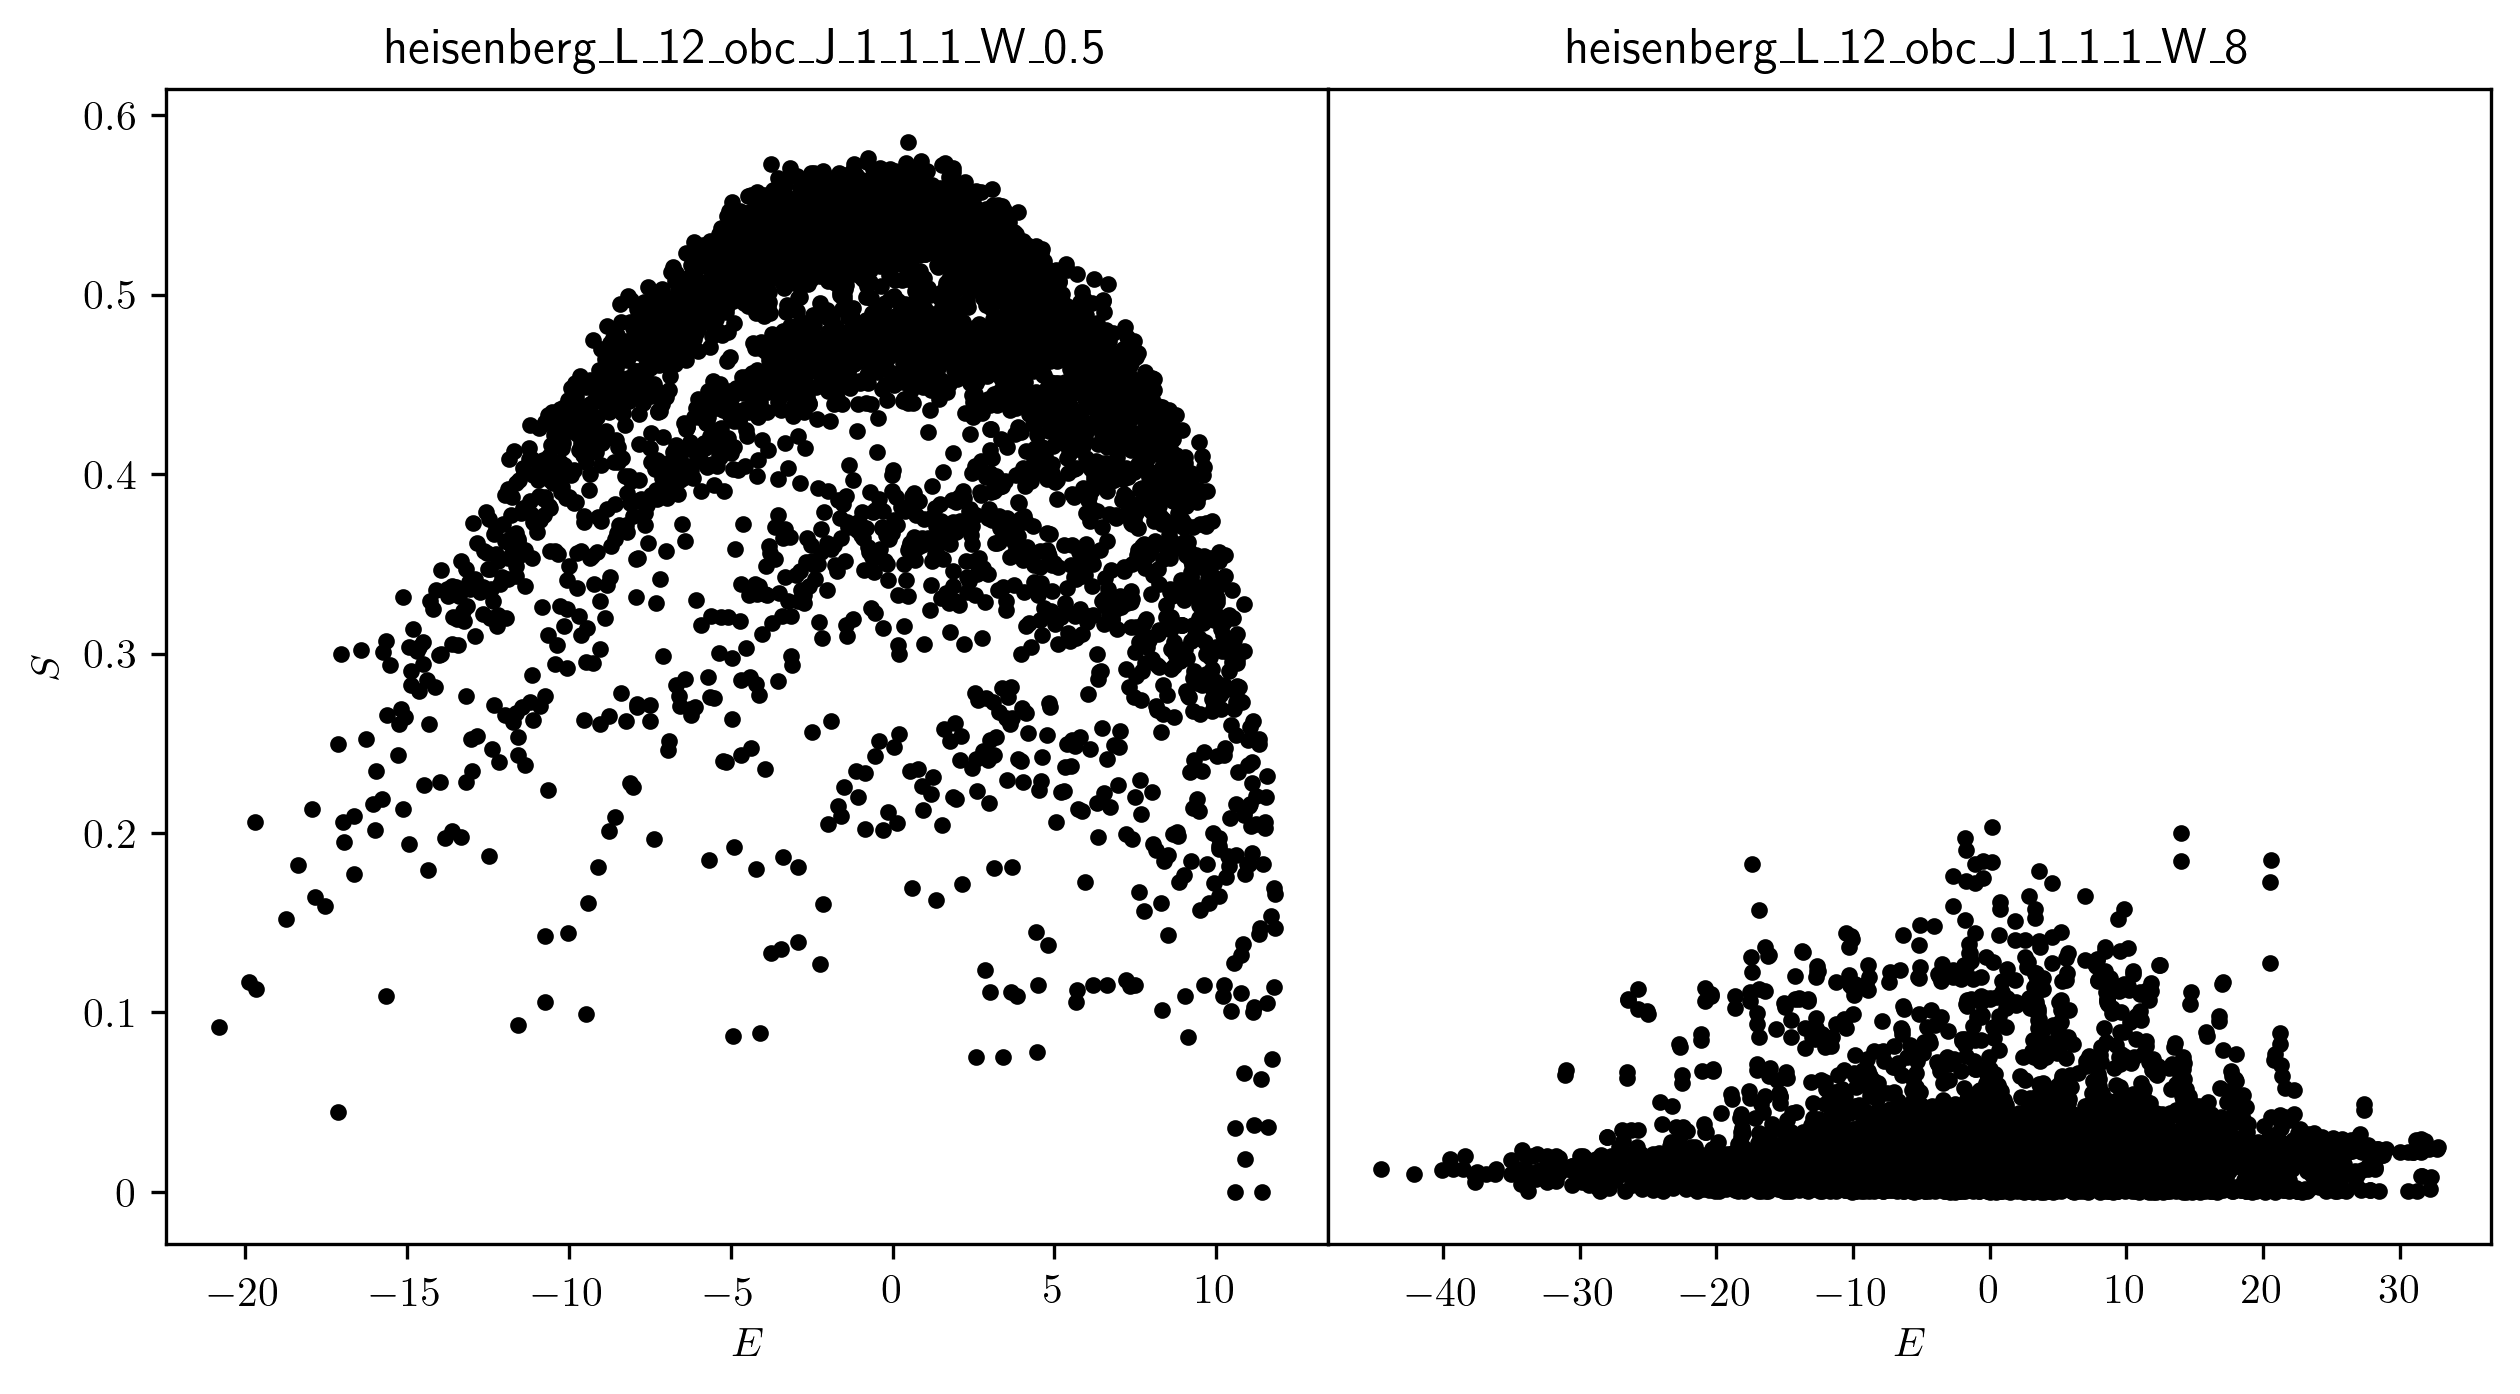
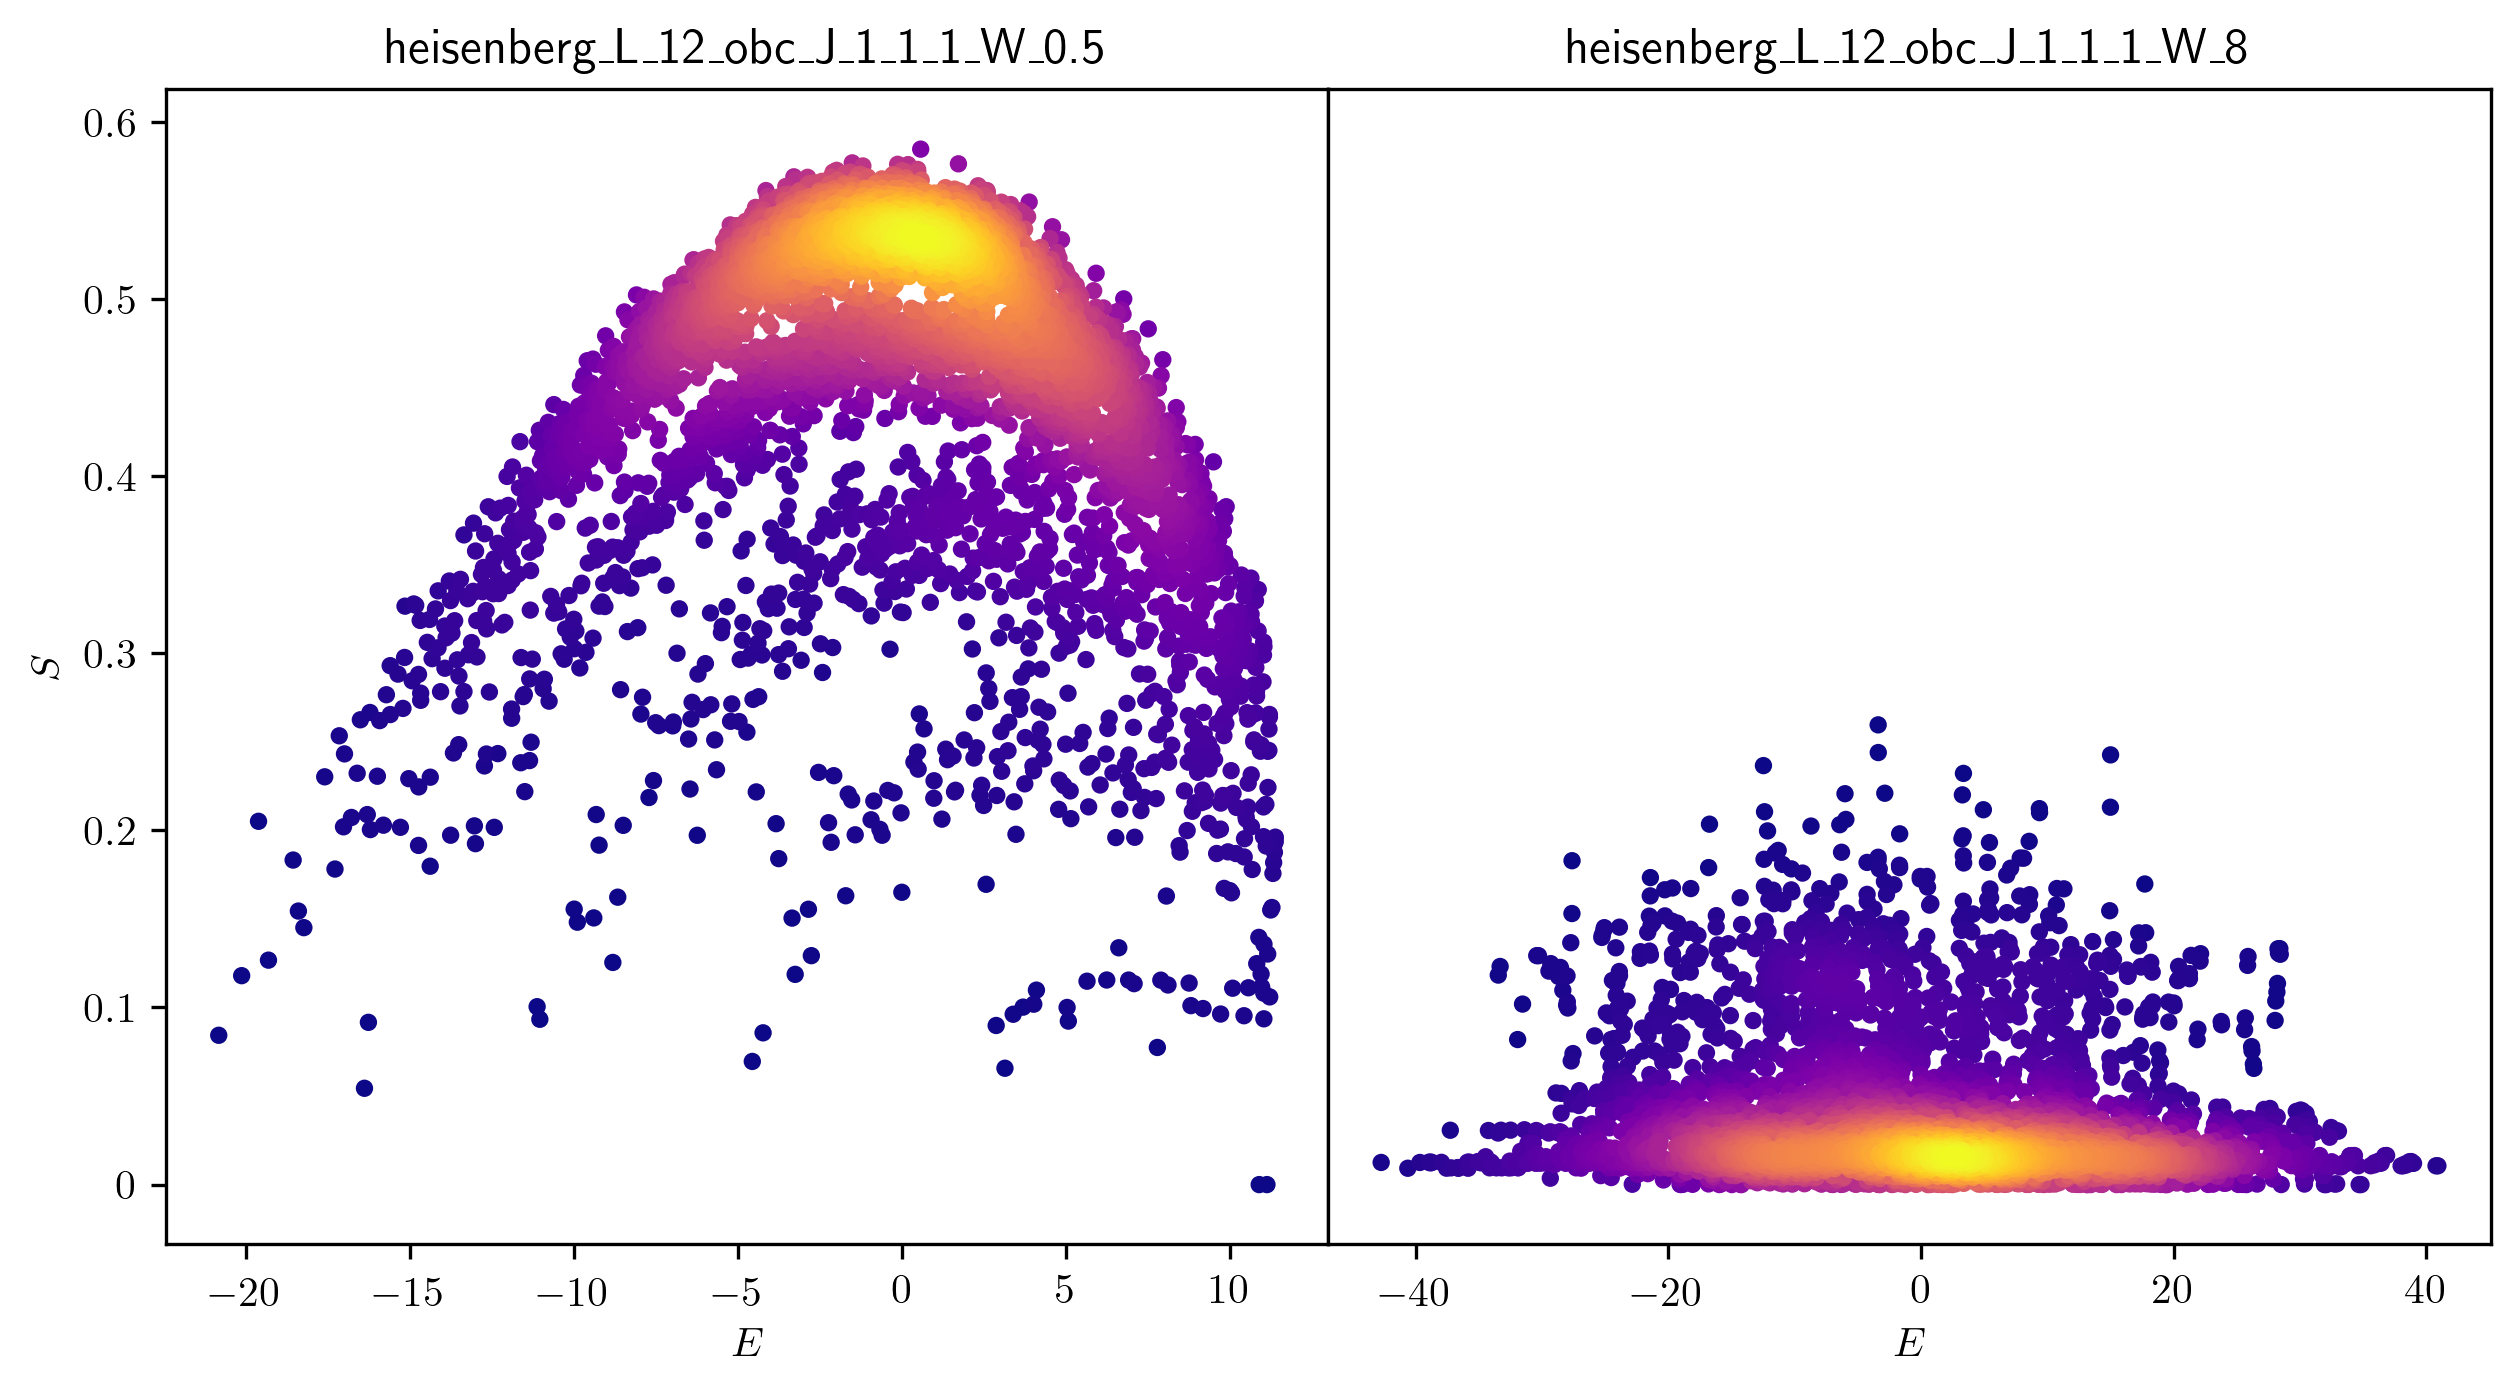
updated ent_arc plot

diff --git a/plot/ent_arc.py b/plot/ent_arc.py
@@ -4,6 +4,8 @@ import csv
 from matplotlib.ticker import FormatStrFormatter
 import matplotlib.gridspec as gridspec
 import os
+from scipy.stats import gaussian_kde
+import numpy as np
 
 plt.rc('text', usetex=True)
 plt.rc('text.latex', preamble=r'\usepackage{amsmath}\usepackage{braket}')
@@ -34,7 +36,18 @@ def plot_ent_arc(_model, _params1, _params2=None, _save=False):
 
         plt.figure(figsize=(5, 5))
         ax0 = plt.subplot(111)
-        ax0.plot(E_1, S_1, '.', c='k', lw=1)
+
+        # convert lists to arrays
+        E_1 = np.array(E_1)
+        S_1 = np.array(S_1)
+        # calculate the point density
+        E_1_S_1 = np.vstack([E_1, S_1])
+        z = gaussian_kde(E_1_S_1)(E_1_S_1)
+        # sort the points by density, so that the densest points are plotted last
+        idx = z.argsort()
+        E_1, S_1, z = E_1[idx], S_1[idx], z[idx]
+        # scatter plot
+        ax0.scatter(E_1, S_1, c=z, s=10, cmap='plasma')
         ax0.set_xlabel('$E$')
         ax0.xaxis.set_major_formatter(FormatStrFormatter('$%g$'))
         ax0.set_ylabel('$S$')
@@ -71,7 +84,17 @@ def plot_ent_arc(_model, _params1, _params2=None, _save=False):
         ax0 = plt.subplot(gs[0])
         ax1 = plt.subplot(gs[1], sharey=ax0)
 
-        ax0.plot(E_1, S_1, '.', c='k', lw=1)
+        # convert lists to arrays
+        E_1 = np.array(E_1)
+        S_1 = np.array(S_1)
+        # calculate the point density
+        E_1_S_1 = np.vstack([E_1, S_1])
+        z = gaussian_kde(E_1_S_1)(E_1_S_1)
+        # sort the points by density, so that the densest points are plotted last
+        idx = z.argsort()
+        E_1, S_1, z = E_1[idx], S_1[idx], z[idx]
+        # scatter plot
+        ax0.scatter(E_1, S_1, c=z, s=10, cmap='plasma')
         ax0.set_xlabel('$E$')
         ax0.xaxis.set_major_formatter(FormatStrFormatter('$%g$'))
         ax0.set_ylabel('$S$')
@@ -79,7 +102,17 @@ def plot_ent_arc(_model, _params1, _params2=None, _save=False):
         ax0.set_title(f"{_model}_{_params1}".replace('_', '\_'))
 
         ax1.yaxis.set_visible(False)
-        ax1.plot(E_2, S_2, '.', c='k', lw=1)
+        # convert lists to arrays
+        E_2 = np.array(E_2)
+        S_2 = np.array(S_2)
+        # calculate the point density
+        E_2_S_2 = np.vstack([E_2, S_2])
+        z = gaussian_kde(E_2_S_2)(E_2_S_2)
+        # sort the points by density, so that the densest points are plotted last
+        idx = z.argsort()
+        E_2, S_2, z = E_2[idx], S_2[idx], z[idx]
+        # scatter plot
+        ax1.scatter(E_2, S_2, c=z, s=10, cmap='plasma')
         ax1.set_xlabel('$E$')
         ax1.xaxis.set_major_formatter(FormatStrFormatter('$%g$'))
         ax1.set_title(f"{_model}_{_params2}".replace('_', '\_'))
@@ -95,6 +128,6 @@ if __name__ == "__main__":
 
     model = 'heisenberg'
     params1 = 'L_12_obc_J_1_1_1_W_0.5'
-    params2 = 'L_12_obc_J_1_1_1_W_8'
+    # params2 = 'L_12_obc_J_1_1_1_W_8'
 
-    plot_ent_arc(model, params1, params2, _save=False)
+    plot_ent_arc(model, params1, _save=False)
